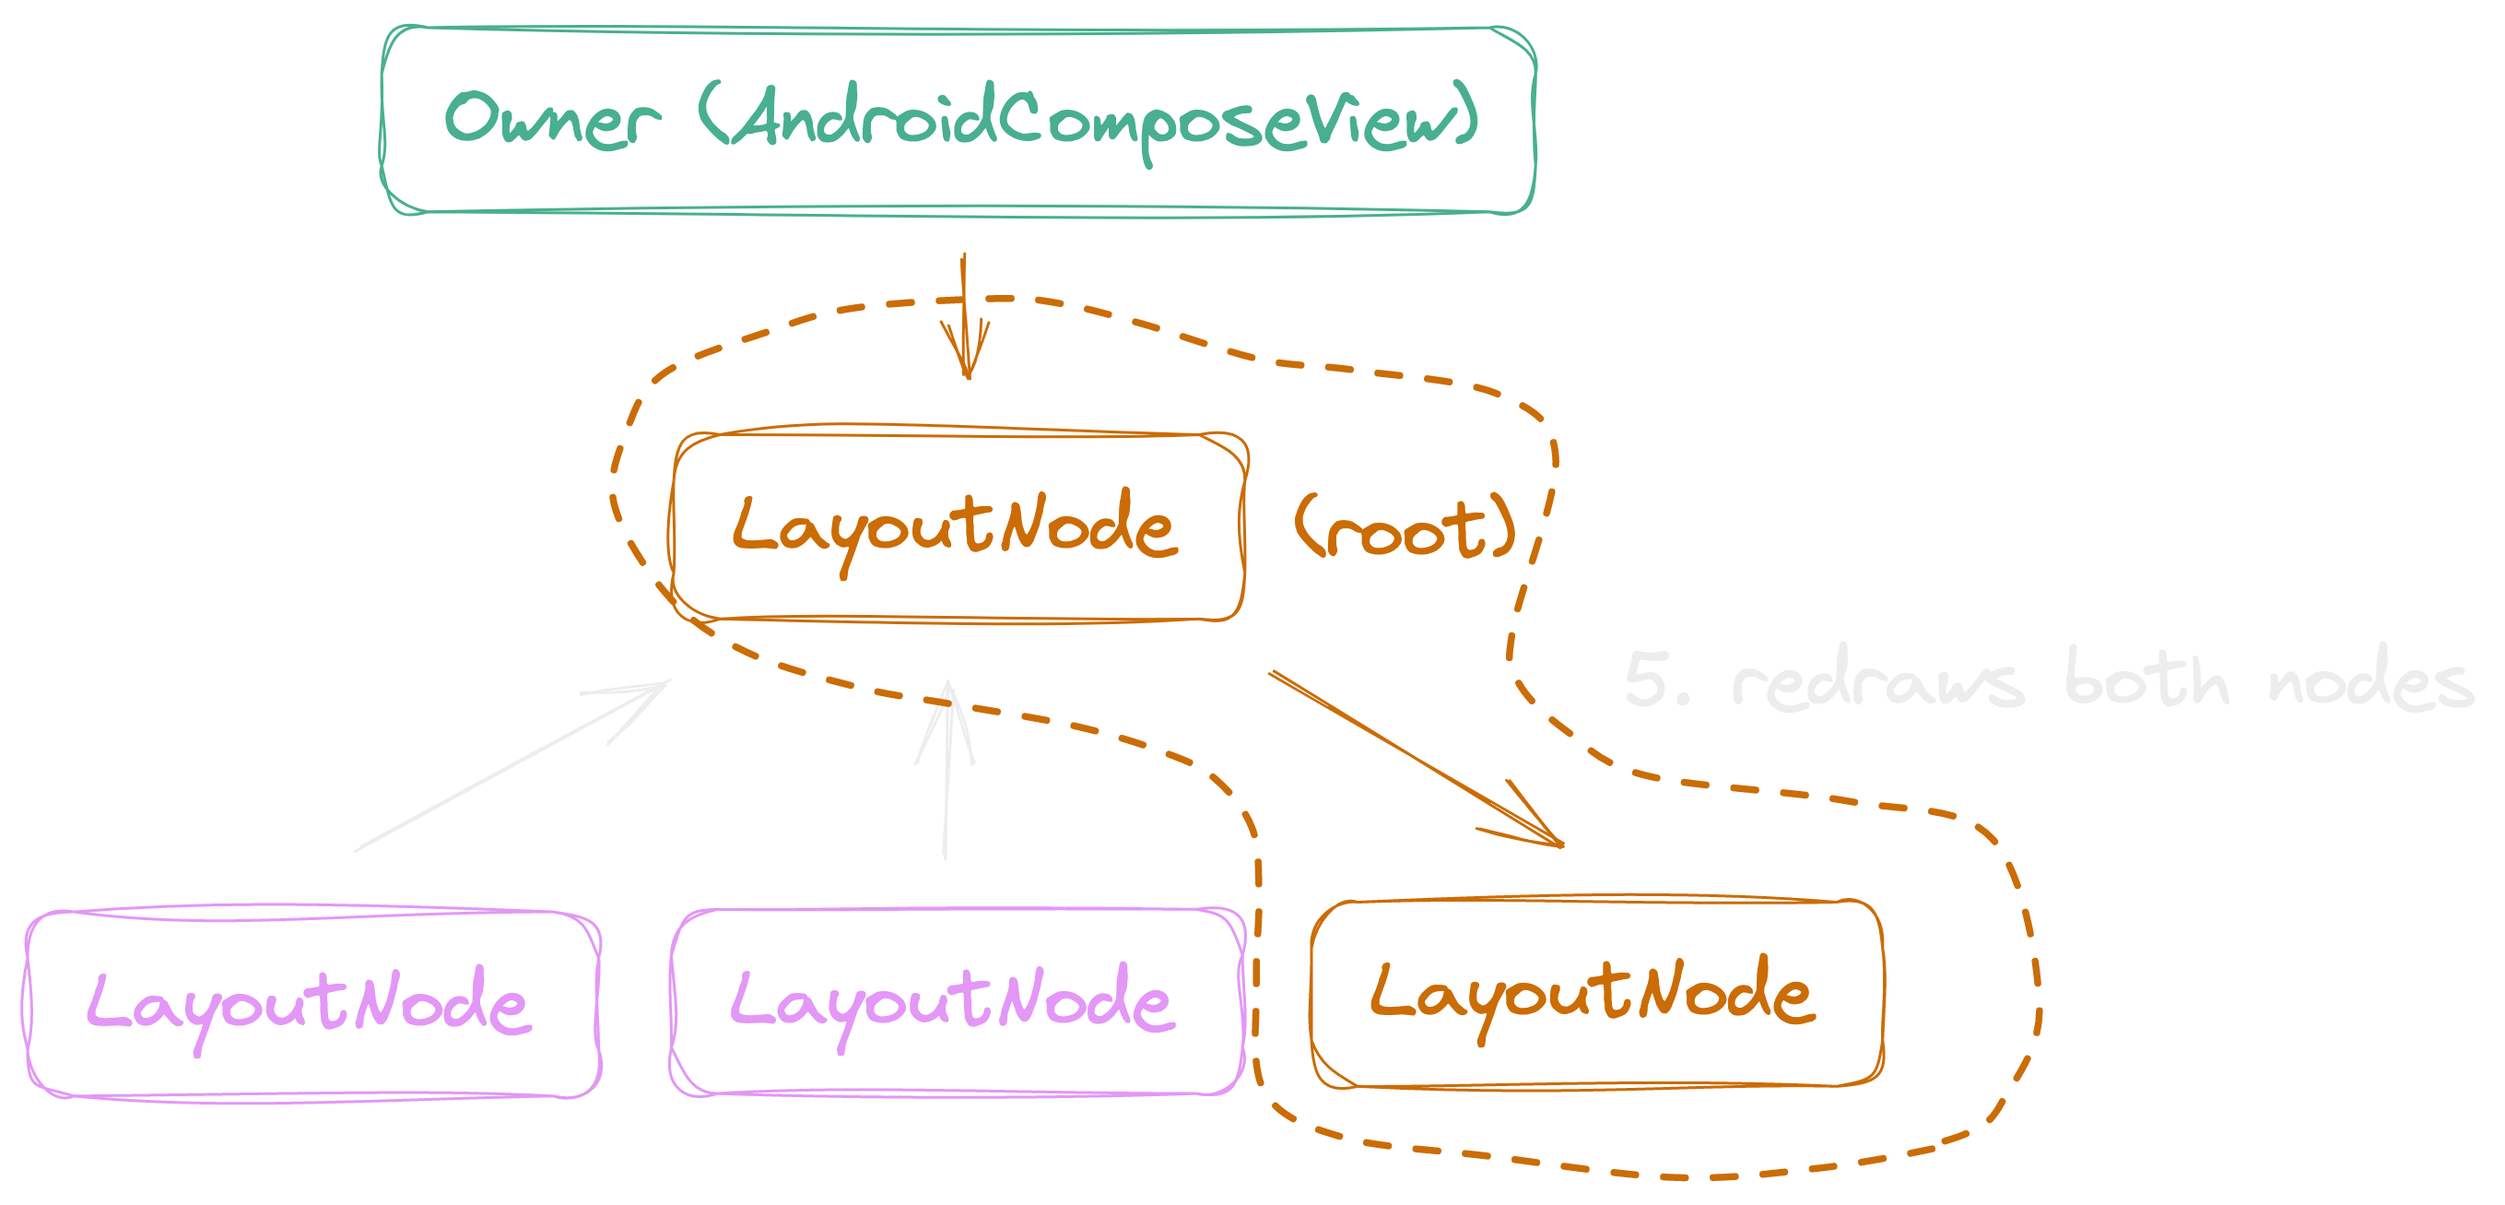
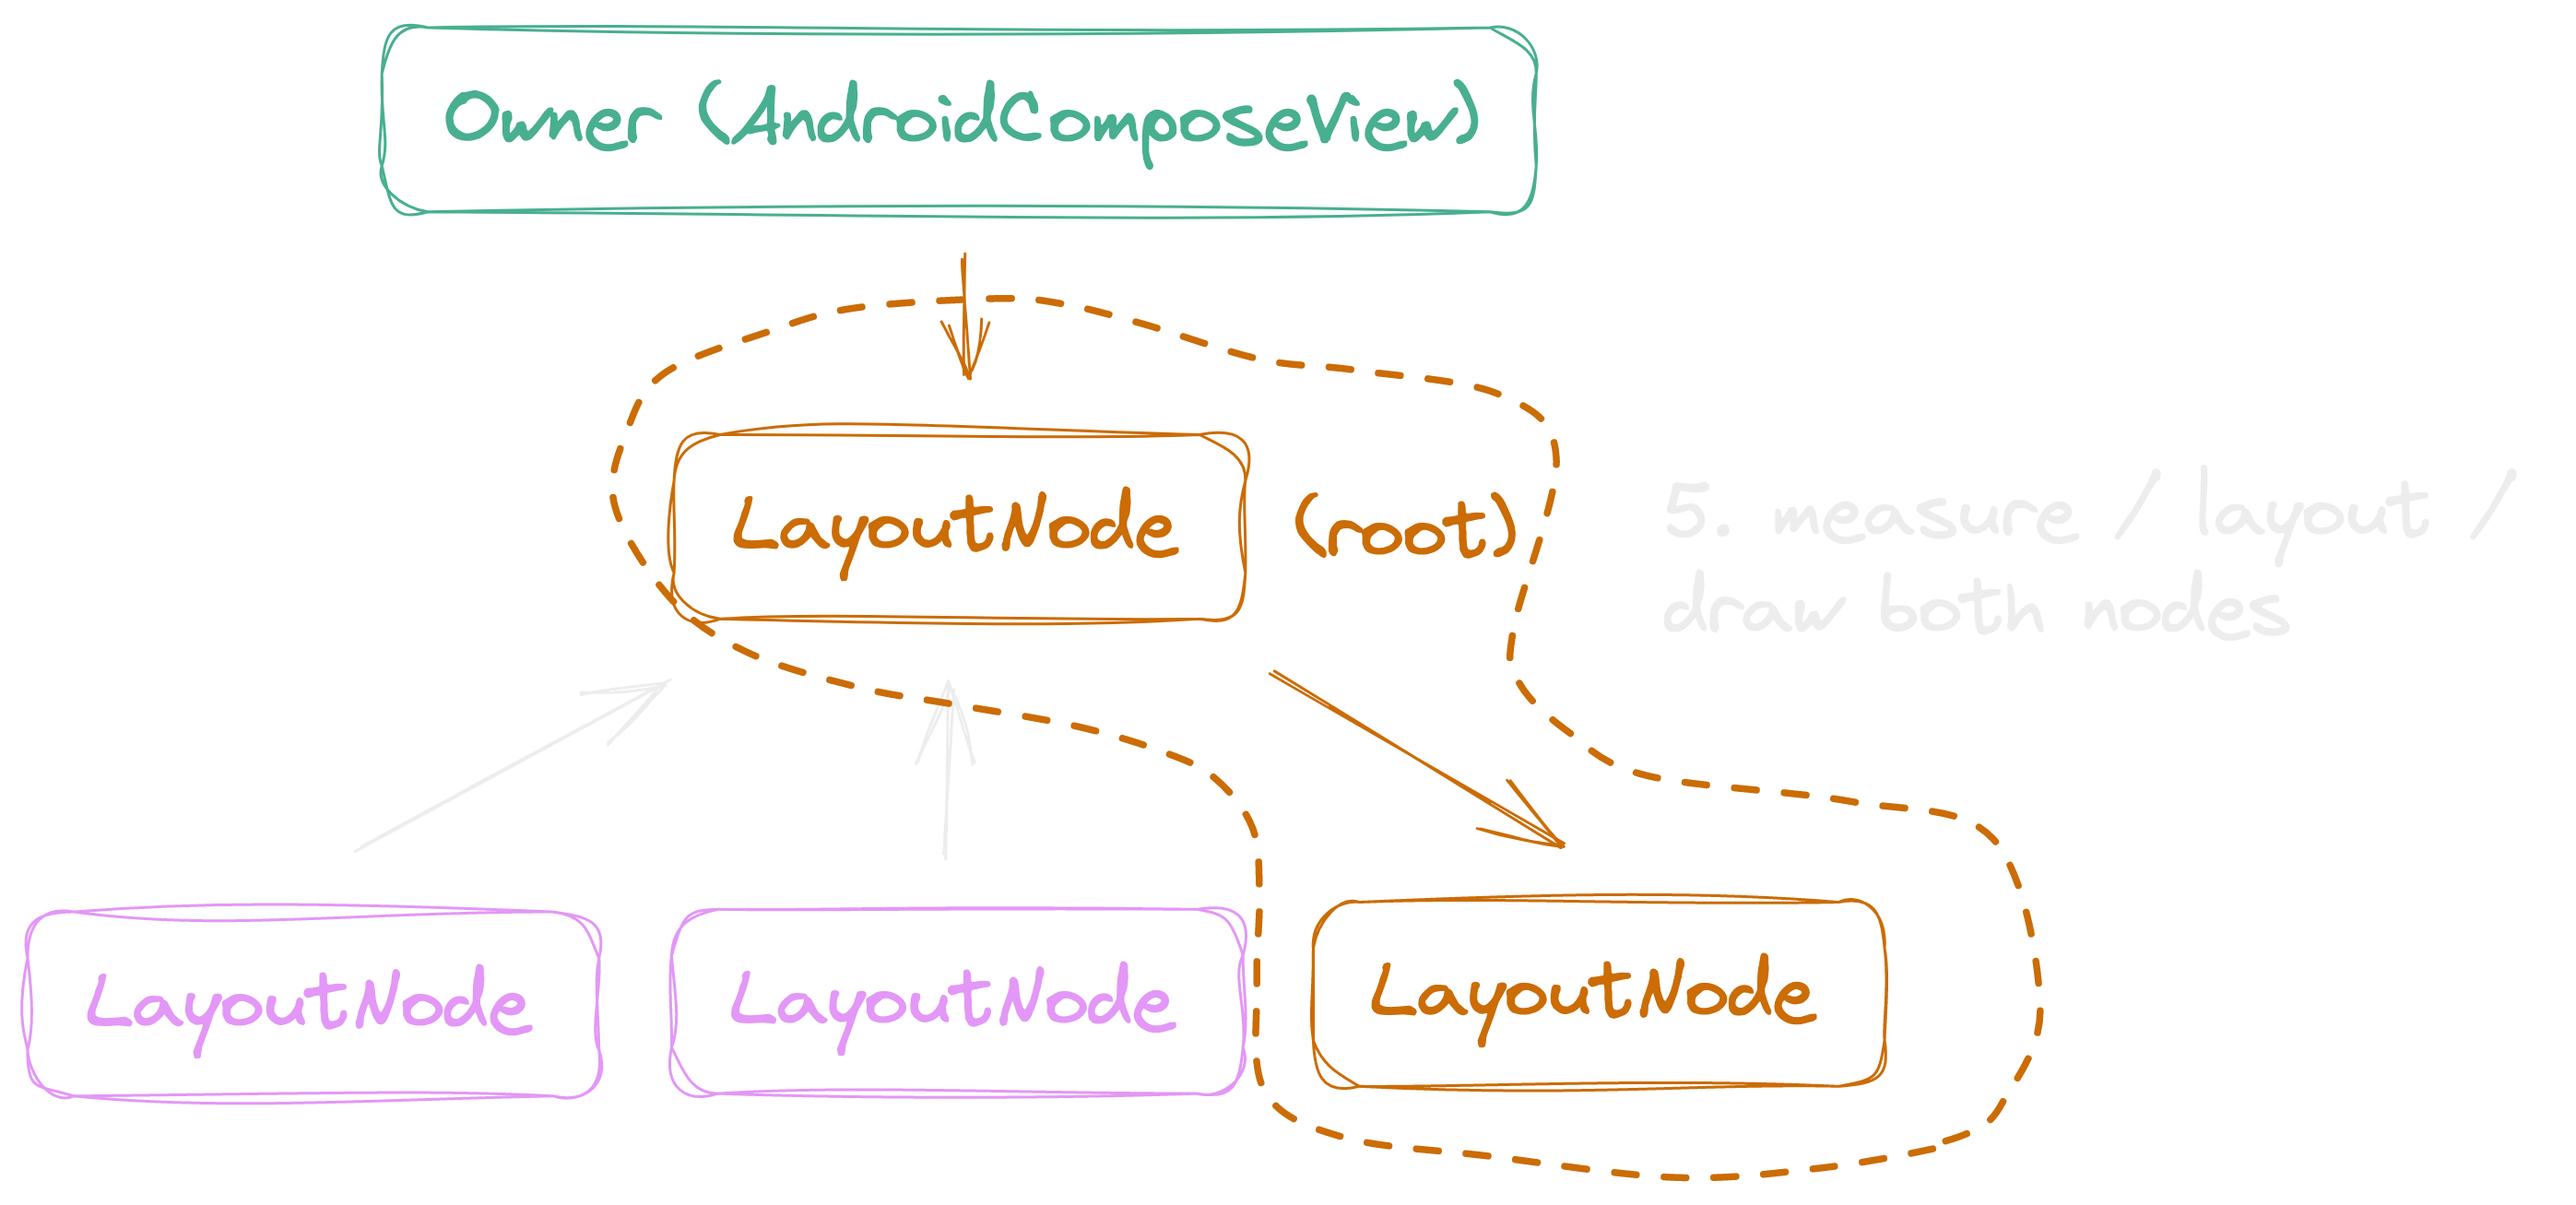
Up to date.

diff --git a/slides/lesson2.md b/slides/lesson2.md
@@ -319,12 +319,15 @@ StairedBox {
 
 ---
 
-* Note: The above is not only `Layout`s but also `layout` modifiers.
-* In Compose, nodes know how to measure themselves
-* It wraps the node and points to the next in the chain (wrapped)
+🚨 **Layout modifiers** also affect measure / layout 🚨
+
+* 👉 They are also wrapped
 
 ---
 
+<img src="slides/images/layoutnodewrappers2.png" width="800">
+
+---
 
 
 
